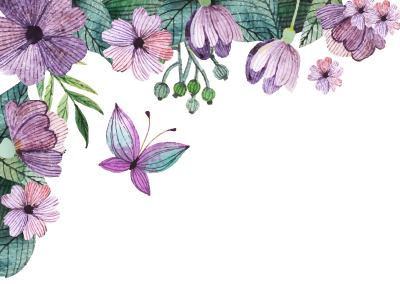
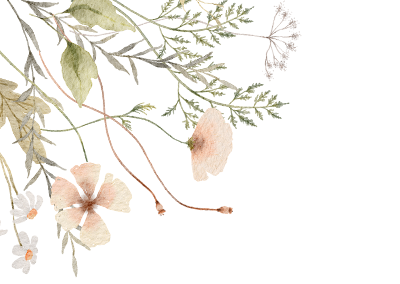
feat: adjustment invite and maps

diff --git a/index.html b/index.html
@@ -5,24 +5,17 @@
       <meta charset="UTF-8">
       <meta name="viewport" content="width=device-width, initial-scale=1, user-scalable=no" />
       <meta name="description"
-         content="With the divine grace of the almighty, inviting you and your family to Sonali's wedding to be held on 29th November at Ashirwad Garden, Ratu, Ranchi from 7:00 PM onwards.">
+         content="Casamento de Cicília e Matheus, junte-se a nós em Catolé do Rocha">
       <meta name="author" content="Matheus Costa">
       <meta name="email" content="matheuslimat@gmail.com">
-      <meta name="copyright" content="Vinit Shahdeo 2020" />
+      <meta name="copyright" content="Matheus Costa 2023" />
       <meta property="og:type" content="website" />
       <meta property="og:title" content="Convite de Casamento | 24th Jun | Catolé do  Rocha, PB" />
       <meta property="og:description"
-         content="With the divine grace of the almighty, inviting you and your family to elder sister's wedding to be held on 29th November at Ashirwad Garden, Ratu, Ranchi from 7:00 PM onwards." />
-      <meta property="og:image" content="https://raw.githubusercontent.com/vinitshahdeo/vinitshahdeo/master/images/sonali.jpeg" />
+         content="Casamento de Cicília e Matheus, junte-se a nós em Catolé do Rocha" />
+      <meta property="og:image" content="https://imgur.com/6e1UZfz.png" />
       <meta property="og:url" content="" />
       <meta property="og:site_name" content="Convite de Casamento | 24th Jun" />
-      <meta name="twitter:card" content="website">
-      <meta name="twitter:site" content="Convite de Casamento | 24th Jun">
-      <meta name="twitter:title" content="Convite de Casamento | 24th Jun">
-      <meta name="twitter:description"
-         content="With the divine grace of the almighty, inviting you and your family to elder sister's wedding to be held on 29th November at Ashirwad Garden, Ratu, Ranchi from 7:00 PM onwards.">
-      <meta name="twitter:creator" content="@Vinit_Shahdeo">
-      <meta name="twitter:image" content="https://raw.githubusercontent.com/vinitshahdeo/vinitshahdeo/master/images/sonali.jpeg">
 
       <title>Convite de Casamento | Jun 24 | Catolé do Rocha, PB</title>
 
@@ -36,8 +29,8 @@
    <body>
       <!-- partial:index.partial.html -->
       <div class="sakura-falling"></div>
-      <img src="https://i.imgur.com/dGOOfnA.png" alt="image-top-right" class="top-right-decoration">
-      <img src="https://i.imgur.com/t6ffnbn.png" alt="image-top-left" class="top-left-decoration"> 
+      <img src="https://imgur.com/L8Ko8l5.png" alt="image-top-right" class="top-right-decoration">
+      <img src="https://imgur.com/41bo1Xp.png" alt="image-top-left" class="top-left-decoration"> 
       <section id="media"></section>
       <div class="wrap">
          <div class="title">
@@ -46,19 +39,21 @@
             <h1>Matheus</h1>
             <h3>Estão se casando</h3>
             <p>
-               <span class="date">24 Junho 2023</span></29>, Em <span class="place">Catolé do Rocha</span> Casa de Iraneth              
+               <span class="date">24 Junho 2023</span></29>, Em <span class="place">Catolé do Rocha</span> Casa da noiva              
             </p>
          </div>
       </div>
       <div id="time"></div>
       <p class="dance-med">
-         Logo mais, um saboroso jantar nos aguarda.
+         As 19 horas o casamento
+         <br>
+         Em seguida, um saboroso jantar nos aguarda.
       </p>
       <div class="actions">
-        <a href="https://goo.gl/maps/5z5xX2hTYzU8VGEJ9" target="_blank">
+        <a href="https://goo.gl/maps/iJKL96sekqAPHCjB8" target="_blank">
           <div class="venue">LOCAL DA CELEBRAÇÃO</div>
         </a>
-        <a href="https://github.com/vinitshahdeo/vinitshahdeo/raw/master/docs/Sonali%20%26%20Gagan.pdf" download="Convite | 24 Junho | Esperamos por você!">
+        <a href="https://github.com/matheuslimat/Matrimony-Memo/raw/master/invitation/Sonali%20%26%20Gagan.pdf" download="Convite | 24 Junho | Esperamos por você!">
           <div class="venue">PEGUE SEU CONVITE</div>
         </a>
       </div>
@@ -71,6 +66,11 @@
         <audio src="./assets/mp3/song.mp3" id="my_audio" loop="loop"></audio> 
       </div>
       <p class="happiness">Junte-se a nós!<br></p>
+
+      <div class="map-container">
+         <iframe src="https://www.google.com/maps/embed?pb=!4v1685241785034!6m8!1m7!1sAVEJRQoB3DFSJqRlrPaU4A!2m2!1d-6.331536575246181!2d-37.73567916549905!3f154.88!4f1.1299999999999955!5f0.7820865974627469" loading="lazy" referrerpolicy="no-referrer-when-downgrade"></iframe>
+       </div>
+       
       <!-- partial -->
       <script src='https://cdnjs.cloudflare.com/ajax/libs/jquery/3.4.1/jquery.min.js'></script>
       <script src='https://cdn.jsdelivr.net/gh/timoschaefer/jQuery-Sakura/jquery-sakura.min.js'></script>

diff --git a/css/style.css b/css/style.css
@@ -412,7 +412,7 @@ img {
 	letter-spacing: 1px;
 	font-size: 14px;
 	color: #7a794a;
-	margin: 16px;
+	margin: 40px;
 	text-align: center;
 }
 
@@ -485,7 +485,7 @@ body {
 	width: auto;
 	height: auto;
 	background-color: #9c9b70;
-	border-radius: 16px;
+	border-radius: 30px;
 	text-align: center;
 	color: #fff;
 	padding: 8px;
